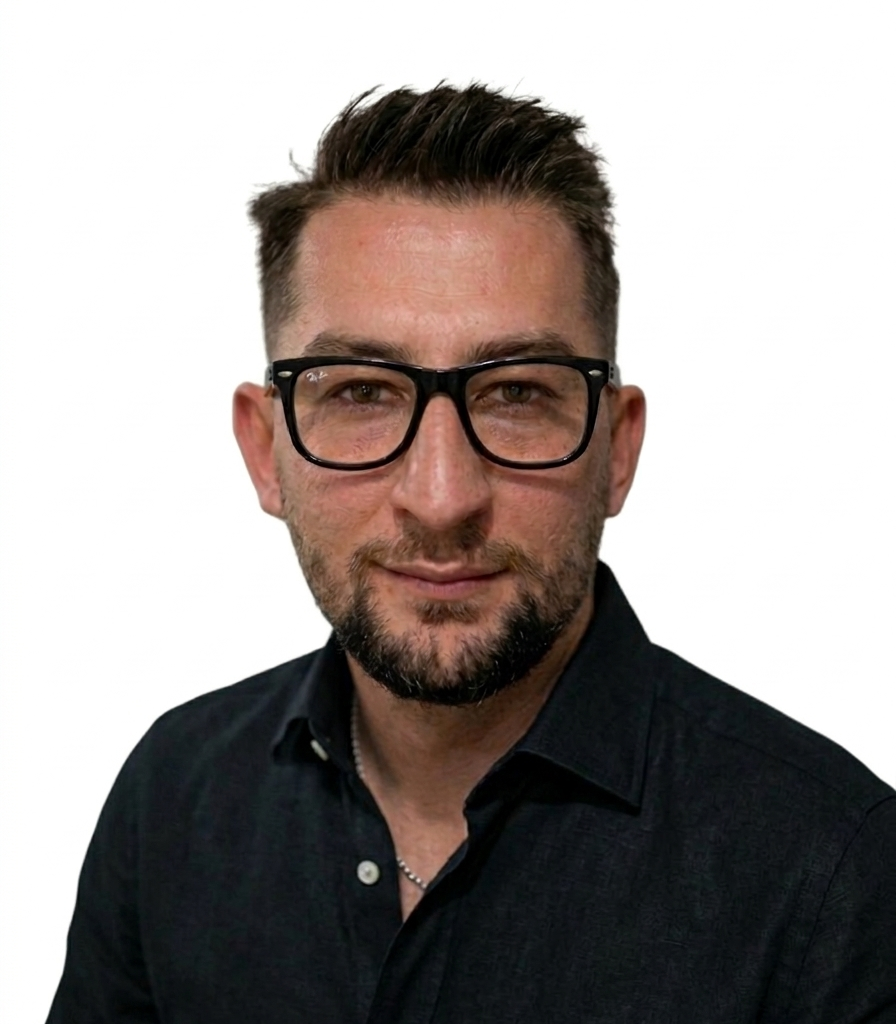
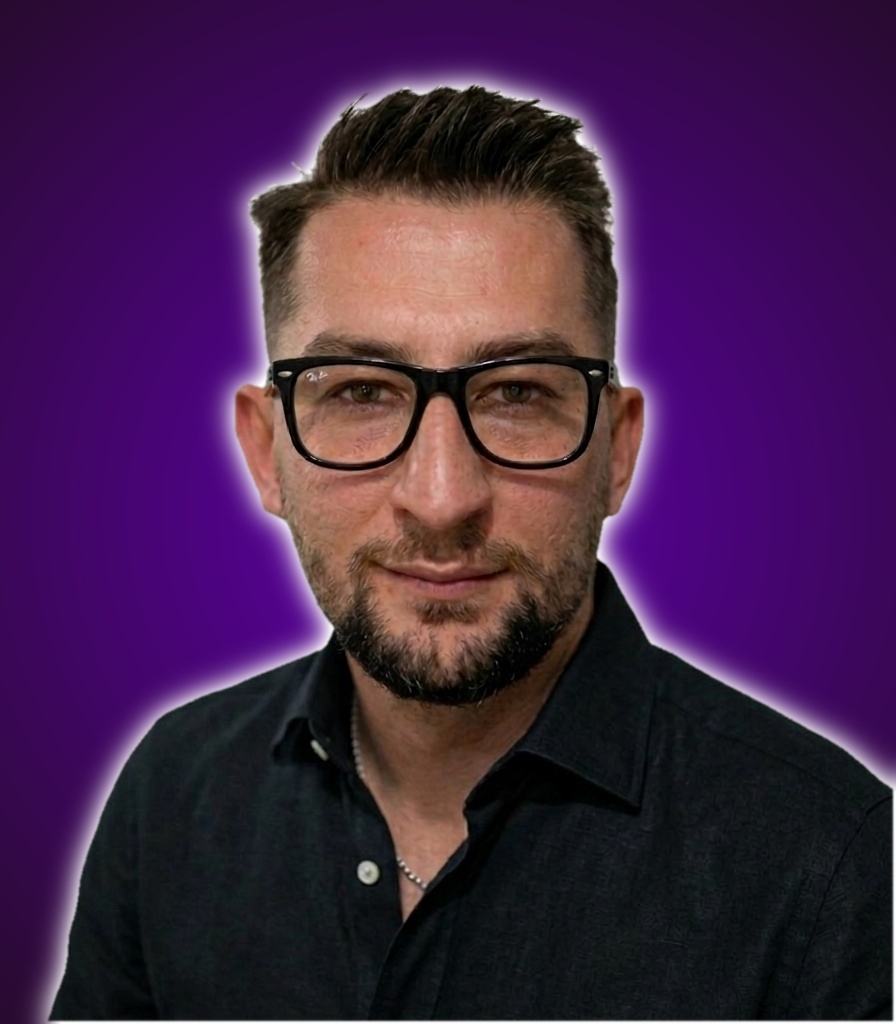
Ticker: match hero eyebrow typography — uppercase, 0.2em letter-spacing, Inter 400, 12px

diff --git a/style.css b/style.css
@@ -3610,10 +3610,12 @@ body.contact-page {
     animation: tickerScroll 20s linear infinite;
 }
 .hero-ticker-track span {
-    font-size: 13px;
+    font-size: 12px;
     color: rgba(255,255,255,0.65);
     font-family: 'Inter', sans-serif;
-    letter-spacing: 0.06em;
+    font-weight: 400;
+    letter-spacing: 0.2em;
+    text-transform: uppercase;
     padding-right: 0;
 }
 @keyframes tickerScroll {
